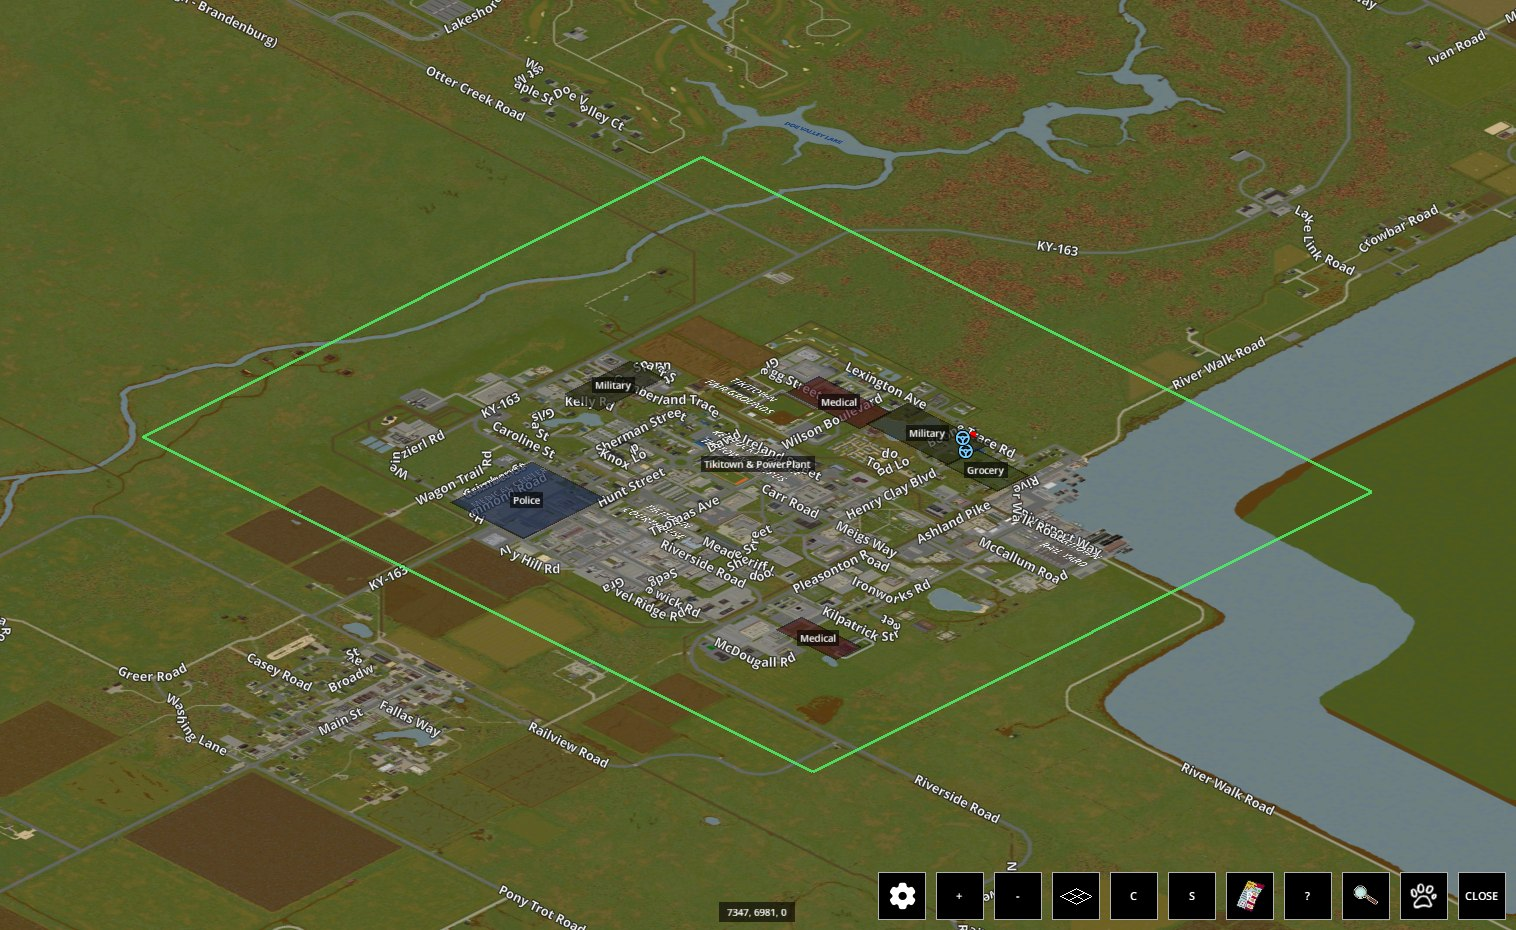
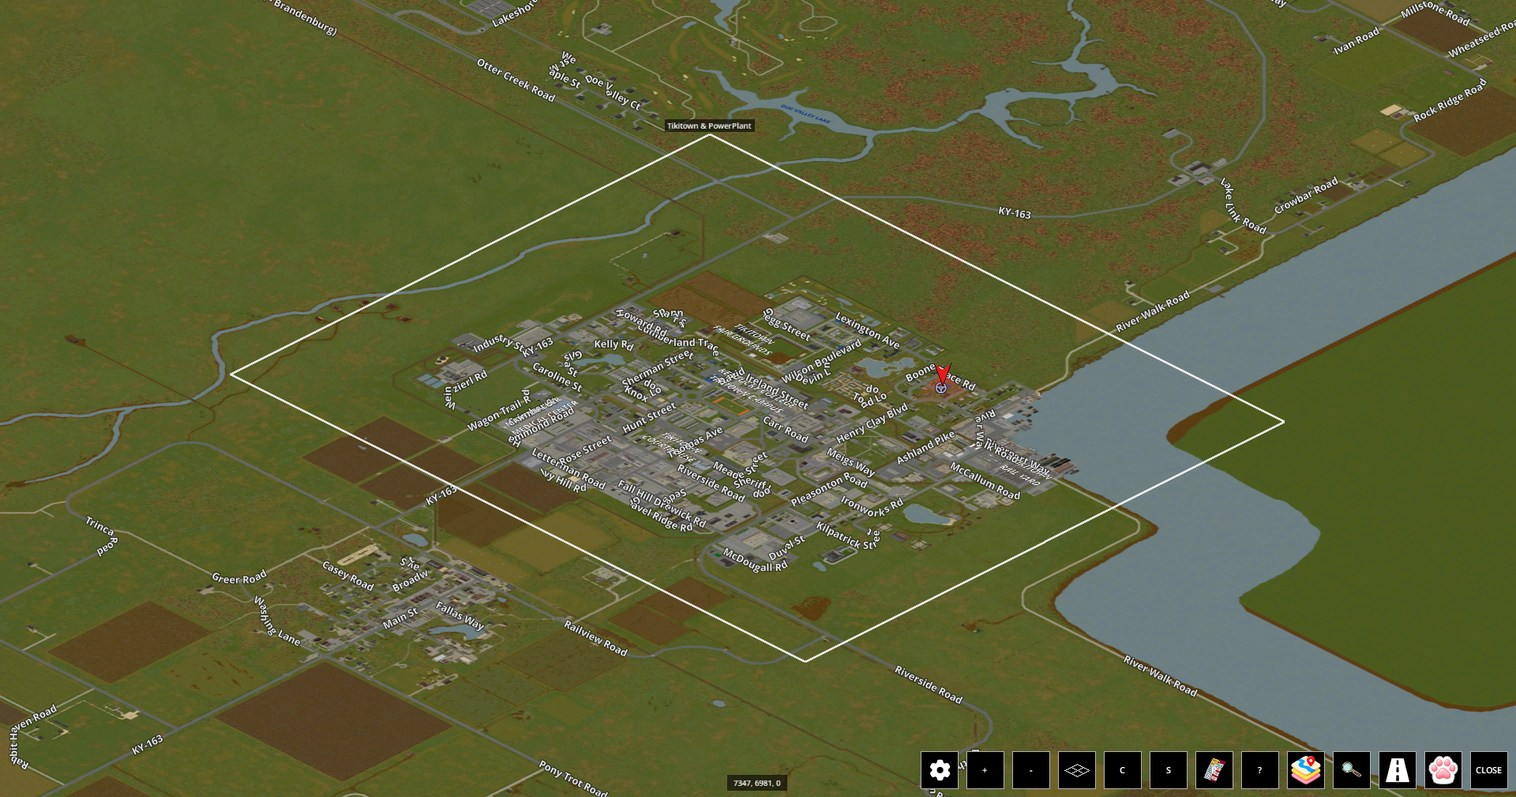
docs: Steam 指南與預覽圖跟上主 MOD 0.54.0 的 MOD 地圖框線
框線圖換成白框、名稱在範圍最上方的角外（家族庫 E2E guide-shots-sp：CH modmaps-gs-CH-1102-025934、EN modmaps-gs-EN-1102-040648，1920×1009 縮成 1516×797，JPG q89）；常見問題「框線或 MOD 地圖圖片可以關嗎？」改成小地圖與世界地圖兩顆開關、預設白、伺服器沙盒。主 MOD 發車後再 guide.sync 與同步預覽圖。

diff --git a/STEAM_GUIDE_EN.md b/STEAM_GUIDE_EN.md
@@ -268,8 +268,9 @@ For what the marks mean, see "Supported maps (A–M)".
 [/list]
 [h3]Can I turn off the outlines or map images?[/h3]
 [list]
-[*] Yes, in the minimap gear settings or the ESC mod options.
-[*] The outline colour can be changed too.
+[*] Yes, in the "Mod maps" category of the minimap gear settings or the ESC mod options; the outlines have separate switches for the minimap and the world map.
+[*] Outlines are white by default, and the colour can be changed.
+[*] Servers can turn the outlines off for everyone with the sandbox option "Allow MOD map outlines".
 [/list]
 === 💬 Feedback
 [list]

diff --git a/STEAM_GUIDE.md b/STEAM_GUIDE.md
@@ -268,8 +268,9 @@ https://steamcommunity.com/sharedfiles/filedetails/?id=3763914102
 [/list]
 [h3]框線或 MOD 地圖圖片可以關嗎？[/h3]
 [list]
-[*] 可以，在小地圖齒輪設定或 ESC 選項裡。
-[*] 框線顏色也能換。
+[*] 可以，在小地圖齒輪設定的「MOD 地圖」分類或 ESC 選項裡；框線在小地圖與世界地圖各有一顆開關。
+[*] 框線預設白色，顏色也能換。
+[*] 伺服器可以用沙盒「允許顯示 MOD 地圖框線」替所有玩家關掉框線。
 [/list]
 === 💬 回報方式
 [list]
